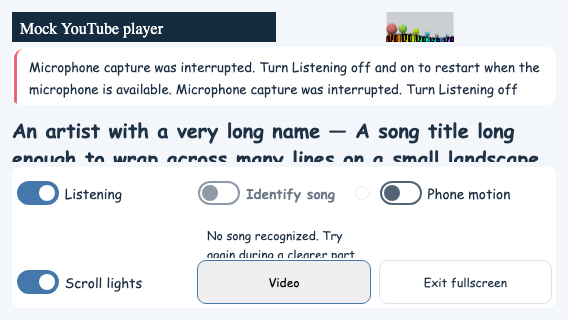
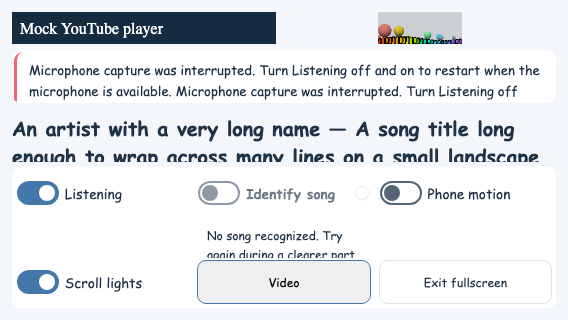
Fit fullscreen song rows and keep new work records outside Git

Changed region(s): [[0.0299, 0.125, 0.9577, 0.3125], [0.0, 0.375, 0.9577, 0.5312], [0.6585, 0.0312, 0.838, 0.1562]]

diff --git a/musical-leptos/public/styles.css b/musical-leptos/public/styles.css
@@ -274,14 +274,14 @@ nav { flex-wrap: wrap; }
 .camera-controls input { flex: 1; min-width: 0; min-height: 44px; }
 .camera-angle { min-width: 5ch; font-variant-numeric: tabular-nums; }
 .control-help { position: fixed; z-index: 120; padding: .75rem; border: 1px solid var(--line); border-radius: 9px; color: var(--ink); background: var(--surface); box-shadow: 0 4px 20px #0004; font-size: .85rem; line-height: 1.5; max-height: calc(100dvh - 24px); overflow: auto; }
-.audio-card[data-expanded] { display: flex; justify-content: flex-start; gap: .35rem; }
-.audio-card[data-expanded] > .visual-content { position: relative; inset: auto; flex: 1; min-height: 0; display: flex; flex-direction: column; }
+.audio-card[data-expanded] { display: grid; grid-template-columns: minmax(0, 1fr); grid-template-rows: minmax(min(2rem, 10dvh), 1fr) minmax(0, max-content) minmax(0, max-content) auto; gap: .35rem; }
+.audio-card[data-expanded] > .visual-content { position: relative; inset: auto; grid-row: 1; grid-column: 1; min-height: 0; display: flex; flex-direction: column; }
 .audio-card[data-expanded].video-editing > .visual-content { overflow: auto; }
 .audio-card[data-expanded] .spectrum-panel { position: relative; inset: auto; flex: 1; height: auto; min-height: 0; display: flex; }
 .audio-card[data-expanded] #dancinglights { flex: 1; height: auto; min-height: 0; }
-.audio-card[data-expanded] .audio-controls { position: relative; inset: auto; flex: none; order: 10; width: 100%; padding: .25rem; background: var(--surface); border-radius: 8px; }
-.audio-card[data-expanded] .recognized-song { position: relative; order: 9; flex: none; margin: 0; max-height: 16dvh; align-items: flex-start; pointer-events: auto; }
-.audio-card[data-expanded] .recovery-notices { order: 8; flex: none; max-height: 18dvh; }
+.audio-card[data-expanded] .audio-controls { position: relative; inset: auto; grid-row: 4; grid-column: 1; width: 100%; padding: .25rem; background: var(--surface); border-radius: 8px; }
+.audio-card[data-expanded] .recognized-song { position: relative; grid-row: 3; grid-column: 1; min-height: 0; margin: 0; max-height: none; align-items: flex-start; pointer-events: auto; }
+.audio-card[data-expanded] .recovery-notices { grid-row: 2; grid-column: 1; min-height: 0; max-height: none; }
 .audio-card[data-expanded] .button-row { display: grid; gap: .15rem .5rem; }
 .audio-card[data-expanded] :is(.camera-controls, .display-controls, .video-form) { display: none; }
 .audio-card[data-expanded].video-editing .video-form { display: flex; }

diff --git a/docs/youtube-dance.md b/docs/youtube-dance.md
@@ -65,8 +65,8 @@ The worklet adds cue ordinals to existing tempo metadata. Raw loudness,
 filtered-target transport, acoustic traces, and the 38-value physics input
 layout remain unchanged. Physics protocol 8 and phone report v4 record the
 random seed, dance settings, starting ordinal and tempo, and ordered input events
-with their tempo and accent for exact replay with the matching WASM engine. Buffers allocate only when
-recording starts. No alternate timed-reversal engine remains.
+with their tempo and accent for exact replay with the matching WASM engine.
+Buffers allocate only when recording starts. No alternate timed-reversal engine remains.
 
 Floor/ceiling transitions retract the bars before switching collider positions,
 then regrow them over 500 ms. Gravity stays measured/default gravity. Ceiling
@@ -85,30 +85,20 @@ YouTube test uses Google's public iframe-demo video and no recognition upload.
 Run checks from the repository root with pinned tools. Use macOS host access for
 browser commands. Keep the serial startup guard, one worker, and zero retries.
 
-The earlier complete macOS browser run passes 382 checks with zero failures and two
-opt-in skips before the idle pause correction. Core passes 68 tests in each
-of four feature configurations; physics passes 42 tests and the offline harness
-passes 74, including the pause regression. All 61 checks on build `66d4989cc2956f207b347e81` for
-YouTube, musical motion, Advanced controls, keyboard, and Reduced Motion pass
-in Chromium, WebKit, and the iPhone profile. Worklet, Leptos, and reference
-checks pass. The core also compiles for both `thumbv6m-none-eabi` and
-`thumbv7em-none-eabihf` without `std`. All 38 complete acoustic traces match
-the deployed PR #39 WASM bit for bit. Historical fixed-window numeric results
-remain unchanged. See [the evidence record](youtube-dance-results/validation.json)
-for build identities and test boundaries.
+Short landscape fullscreen lets the video and scene shrink to reserve all bottom
+controls. Long song text under Reduced Motion and recovery notices use bounded,
+scrollable regions. The [short landscape image](youtube-dance-results/fullscreen-short-landscape.png)
+shows these regions together with a mock player.
 
-The four review corrections pass 77 offline checks and a 107-check macOS
-browser run. After the final title alignment change, all 47 affected YouTube
-and Advanced checks pass on build `501cd29a6cb45310201cc573`, with no new
-browser crash reports. The combined 568 × 320 layout keeps video, wrapped song
-text, recovery notices, and all controls inside the viewport. The
-[short landscape image](youtube-dance-results/fullscreen-short-landscape.png)
-uses a mock player and long notices under Reduced Motion. Factory reset
-restores 8 kg/m³ and 40 ms after saved 16 kg/m³ and 80 ms settings reload.
-Listening-review plots and exports use the drawn floor/ceiling base. Phone
-report v4 keeps same-tick input, tempo, and accent ordering; worker recordings
-replay exactly at 30, 60, and 120 FPS. See the
-[review evidence](youtube-dance-results/review-fixes.json) for run boundaries.
+Factory reset restores material and stroke settings independently of saved
+preferences. Listening-review plots and exports measure from the last drawn
+floor/ceiling base and enclosure height. Phone report v4 replays each input with
+its tempo and accent in the original order, including updates at the same tick.
+Older recordings require their historical replay tool.
+
+See [PR #40](https://github.com/BlinkyStitt/musical-lights-rs/pull/40) and its CI
+runs for delivery evidence. Browser profiles cannot establish physical iPhone
+speaker routing, real microphone capture, or phone FPS acceptance.
 
 The [portrait](youtube-dance-results/mock-youtube-portrait.png) and
 [landscape](youtube-dance-results/mock-youtube-landscape.png) layout images use a
@@ -117,8 +107,8 @@ comes from the separately invoked real player test. The existing
 [scrolling](musical-motion-results/scrolling-with-audio.mp4) and
 [stationary](musical-motion-results/stationary-with-audio.mp4) previews use
 identical licensed audio packets. Their approximate synchronization does not
-measure output-device latency. The short host render measurements reach about
-60 FPS; they do not satisfy physical-phone FPS acceptance or measure GPU completion.
+measure output-device latency. Digital-music previews do not satisfy
+physical-phone FPS acceptance or measure GPU completion.
 
 ```sh
 export PATH="$PWD/.tools/bin:$PATH"

diff --git a/docs/validation.md b/docs/validation.md
@@ -578,21 +578,16 @@ permission checks, and the remaining physical-device verification boundaries.
 
 ### YouTube and acoustic-peak dance (2026-10-04)
 
-[The implementation and release record](youtube-dance.md) describes the shared
+[The controls and embedded implementation](youtube-dance.md) describes the shared
 control grid, help labels, reserved fullscreen regions, YouTube ownership, camera
 motion, flight budget, and chance-based direction changes. Reusable policy lives
 in the allocation-free `no_std` core, which also compiles for Cortex-M0 and
 Cortex-M4 targets. Browser and physics adapters retain their own platform work.
 
-[Machine-readable evidence](youtube-dance-results/validation.json) separates
-local checks, mocked browser behavior, live YouTube playback, and missing physical
-evidence. The 38 complete acoustic traces remain bit-identical to the deployed
-PR #39 WASM. The historical fixed-window audit retains its numeric results.
-The separately invoked live YouTube check reaches playback without requesting a
-microphone. It does not prove physical speaker audibility or iPhone capture.
+Use [PR #40](https://github.com/BlinkyStitt/musical-lights-rs/pull/40) and its CI
+runs for shared delivery evidence.
 
-Release remains held until an actual iPhone plays audible YouTube while the real
-microphone drives the lights. Desktop WebKit and its iPhone profile cannot satisfy
-that requirement. Human listening and five-minute diagnostics-off phone FPS
-acceptance remain pending. Routine recognition uses mocks; this change makes no
-live AudD request.
+Physical iPhone playback and capture, human listening, and five-minute
+physical-phone FPS acceptance remain pending. Desktop WebKit and its iPhone
+profile cannot establish those results. Routine recognition uses mocks; this
+change makes no live AudD request.
